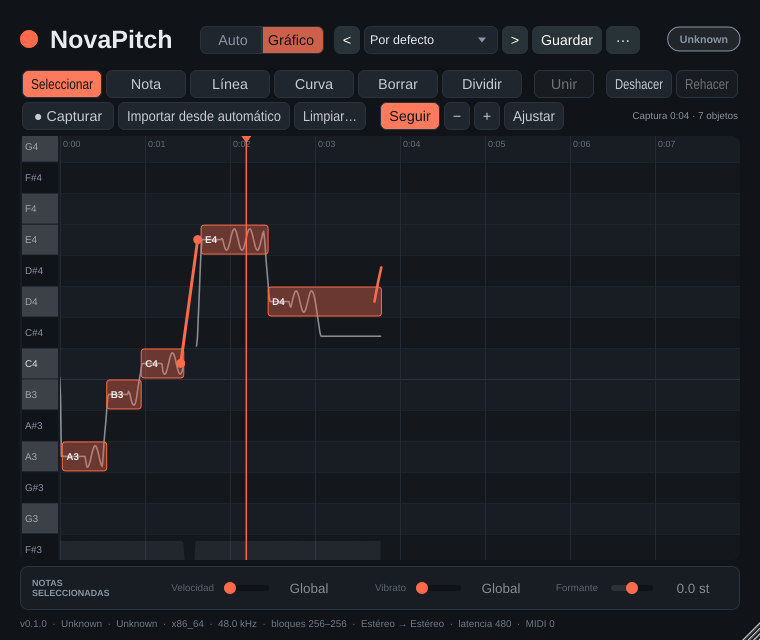
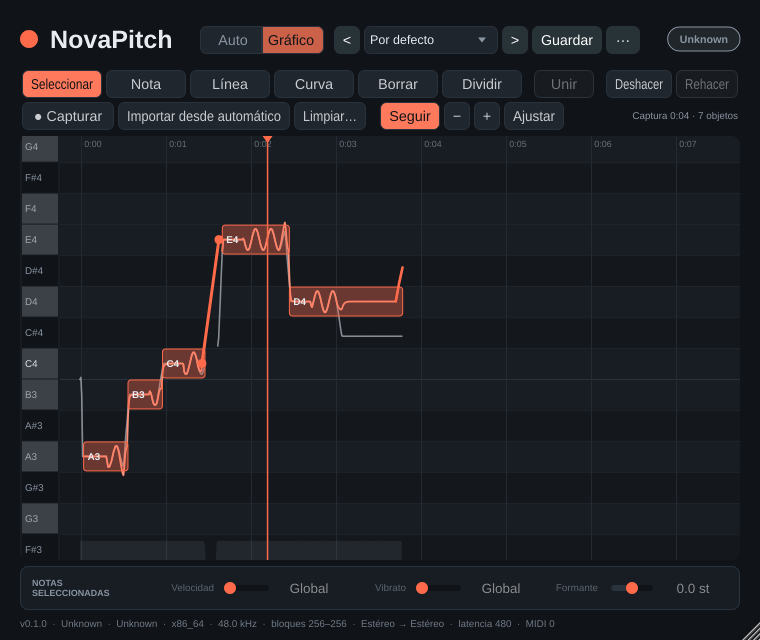
Graph view: predicted corrected curve over the captured one
The editor now draws the expected output where objects act (running-median
centre, per-note or global speed and vibrato, lines/curves exact), so the
view shows original and corrected curves as the spec asks.

Claude-Session: https://claude.ai/code/session_01UkeFdREKEeuKnRrjfDHB6w

diff --git a/src/ui/components/GraphEditor.cpp b/src/ui/components/GraphEditor.cpp
@@ -343,6 +343,31 @@ public:
             g.strokePath (p, juce::PathStrokeType (1.6f, juce::PathStrokeType::curved, juce::PathStrokeType::rounded));
         };
         drawCurve (captured, Palette::textPrimary.withAlpha (0.55f));
+
+        // Predicted corrected curve (where objects act)
+        if (owner.predicted.size() == captured.size())
+        {
+            juce::Path p;
+            bool open = false;
+            const auto begin = visibleBegin (captured);
+            for (auto it = begin; it != captured.end() && it->time <= viewStart + viewLength + 0.05; ++it)
+            {
+                const float out = owner.predicted[static_cast<size_t> (it - captured.begin())];
+                if (out < 0.0f)
+                {
+                    open = false;
+                    continue;
+                }
+                const float x = xOf (it->time), y = yOf (out);
+                if (open)
+                    p.lineTo (x, y);
+                else
+                    p.startNewSubPath (x, y);
+                open = true;
+            }
+            g.setColour (accent.brighter (0.35f));
+            g.strokePath (p, juce::PathStrokeType (1.8f, juce::PathStrokeType::curved, juce::PathStrokeType::rounded));
+        }
         drawCurve (pending, kCaptureRed.withAlpha (0.85f));
 
         // Objects
@@ -1061,10 +1086,83 @@ juce::String GraphEditor::buildInfoText() const
     return text;
 }
 
+void GraphEditor::updatePrediction()
+{
+    auto& state = processor.getValueTreeState();
+    const bool vintage = juce::roundToInt (state.getRawParameterValue ("qualityMode")->load()) == 3;
+    predictedRetune = vintage ? 0.0f : state.getRawParameterValue ("retuneSpeed")->load();
+    predictedKeep = vintage ? 0.0f : state.getRawParameterValue ("vibratoPreserve")->load() / 100.0f;
+
+    // Same idea as the audio path: correction acts on a vibrato-free centre
+    // (here a centred +-90 ms median: removes a vibrato cycle, keeps note steps
+    // sharp), smoothed by the retune speed; the oscillation around the centre
+    // is put back scaled by "keep".
+    const auto& frames = model.getCaptured();
+    const size_t n = frames.size();
+    predicted.assign (n, -1.0f);
+    const auto track = model.compile();
+    std::vector<float> centre (n, -1.0f), window;
+    for (size_t i = 0, lo = 0, hi = 0; i < n; ++i)
+    {
+        if (frames[i].midi < 0.0f)
+            continue;
+        while (frames[lo].time < frames[i].time - 0.09)
+            ++lo;
+        hi = std::max (hi, i);
+        while (hi + 1 < n && frames[hi + 1].time <= frames[i].time + 0.09)
+            ++hi;
+        window.clear();
+        for (size_t k = lo; k <= hi; ++k)
+            if (frames[k].midi >= 0.0f)
+                window.push_back (frames[k].midi);
+        const auto mid = window.begin() + static_cast<long> (window.size() / 2);
+        std::nth_element (window.begin(), mid, window.end());
+        centre[i] = *mid;
+    }
+
+    float correction = 0.0f;
+    double lastTime = -1.0e9;
+    bool active = false;
+    for (size_t i = 0; i < n; ++i)
+    {
+        const auto& f = frames[i];
+        dsp::CorrectionTrack::Result r;
+        if (f.midi < 0.0f || ! track->lookup (f.time, r))
+        {
+            active = false;
+            continue;
+        }
+        const bool exact = r.kind != dsp::CorrectionTrack::Kind::Note;
+        const float tau = exact ? 0.0f : (r.retuneMs >= 0.0f ? r.retuneMs : predictedRetune);
+        const float keep = exact ? 0.0f : (r.vibratoKeep >= 0.0f ? r.vibratoKeep : predictedKeep);
+        const float error = r.pitch - centre[i];
+        const double dt = active ? std::max (0.0, f.time - lastTime) : 0.0;
+        if (! active || tau < 0.5f)
+            correction = error;
+        else
+            correction += static_cast<float> (1.0 - std::exp (-dt * 1000.0 / tau)) * (error - correction);
+        // The +-0.8 st clamp keeps note transitions (where the centre lags) from drawing spikes.
+        predicted[i] = centre[i] + correction + keep * std::clamp (f.midi - centre[i], -0.8f, 0.8f);
+        active = true;
+        lastTime = f.time;
+    }
+}
+
 void GraphEditor::refresh()
 {
     const int generation = model.getGeneration();
-    const bool changed = generation != shownGeneration;
+    bool changed = generation != shownGeneration;
+    {
+        auto& state = processor.getValueTreeState();
+        const bool vintage = juce::roundToInt (state.getRawParameterValue ("qualityMode")->load()) == 3;
+        const float retune = vintage ? 0.0f : state.getRawParameterValue ("retuneSpeed")->load();
+        const float keep = vintage ? 0.0f : state.getRawParameterValue ("vibratoPreserve")->load() / 100.0f;
+        if (changed || std::abs (retune - predictedRetune) > 1.0e-3f || std::abs (keep - predictedKeep) > 1.0e-4f)
+        {
+            updatePrediction();
+            changed = true;
+        }
+    }
     if (changed)
     {
         const bool hadData = shownGeneration >= 0;

diff --git a/src/ui/components/GraphEditor.h b/src/ui/components/GraphEditor.h
@@ -45,6 +45,8 @@ public:
 private:
     void updateButtons();
     void updateInspector();
+    /** Predicted output pitch per captured frame (-1 = not corrected / unvoiced). */
+    void updatePrediction();
     void applyInspector (const juce::Identifier& property, double value);
     void mergeSelection();
     void showClearMenu();
@@ -64,6 +66,8 @@ private:
     bool updatingInspector = false;
 
     int shownGeneration = -1;
+    std::vector<float> predicted;
+    float predictedRetune = -1.0f, predictedKeep = -1.0f;
     juce::String infoText;
 
     friend class Roll;

diff --git a/docs/DSP_NOTES.md b/docs/DSP_NOTES.md
@@ -355,6 +355,13 @@ detected pitch while the host plays and indexes it by the host timeline.
   latency). MIDI Target and the NoteMapper are not used in graphical mode.
 - The vibrato split, formants, transposition, harmonies and engines (PSOLA/HQ) work as in automatic mode.
 
+### Editor preview ("curva corregida")
+- The editor draws, over the captured (original) curve, the predicted output where objects act: centre =
+  running median (±90 ms, removes a vibrato cycle but keeps note steps sharp), correction = one-pole towards
+  the object pitch with the note's (or global) speed, plus the oscillation around the centre × vibrato kept
+  (clamped to ±0.8 st). Lines and curves are drawn exactly. It is a preview: the audio path uses the
+  VibratoAnalyzer and the real-time CorrectionCurve.
+
 ### Measured
 - End to end (unit test with a simulated play head): A3 +30 c captured → import gives one A3 note → edited
   to B3 and shortened to 0.8 s → playback: < 5 c from B3 inside the note, < 5 c from the input after it;

diff --git a/docs/ROADMAP.md b/docs/ROADMAP.md
@@ -78,7 +78,7 @@ Estado por fases (ver especificación original, sección 11).
 - [ ] Captura del audio (no solo de la afinación) para dibujar la forma de onda y como base de la corrección temporal (Fase 9).
 - [ ] Rejilla en compases/tiempos (BPM del host) y ajuste a la rejilla; hoy la regla es en segundos.
 - [ ] Copiar/pegar objetos, mover con flechas, cuantizar notas al inicio/fin de la nota detectada.
-- [ ] Dibujar la curva de salida prevista (captura + corrección) sobre la curva capturada.
+- [x] Curva corregida prevista (captura + objetos + velocidad + vibrato) dibujada sobre la curva original.
 - [ ] Atajos de teclado en FL: FL puede quedarse con algunas teclas si la ventana del plugin no tiene el foco; los botones de la barra cubren todas las acciones.
 - [ ] Comprimir la curva capturada en el estado (hoy ~1,3 MB por cada 10 min de captura en el .flp).
 
